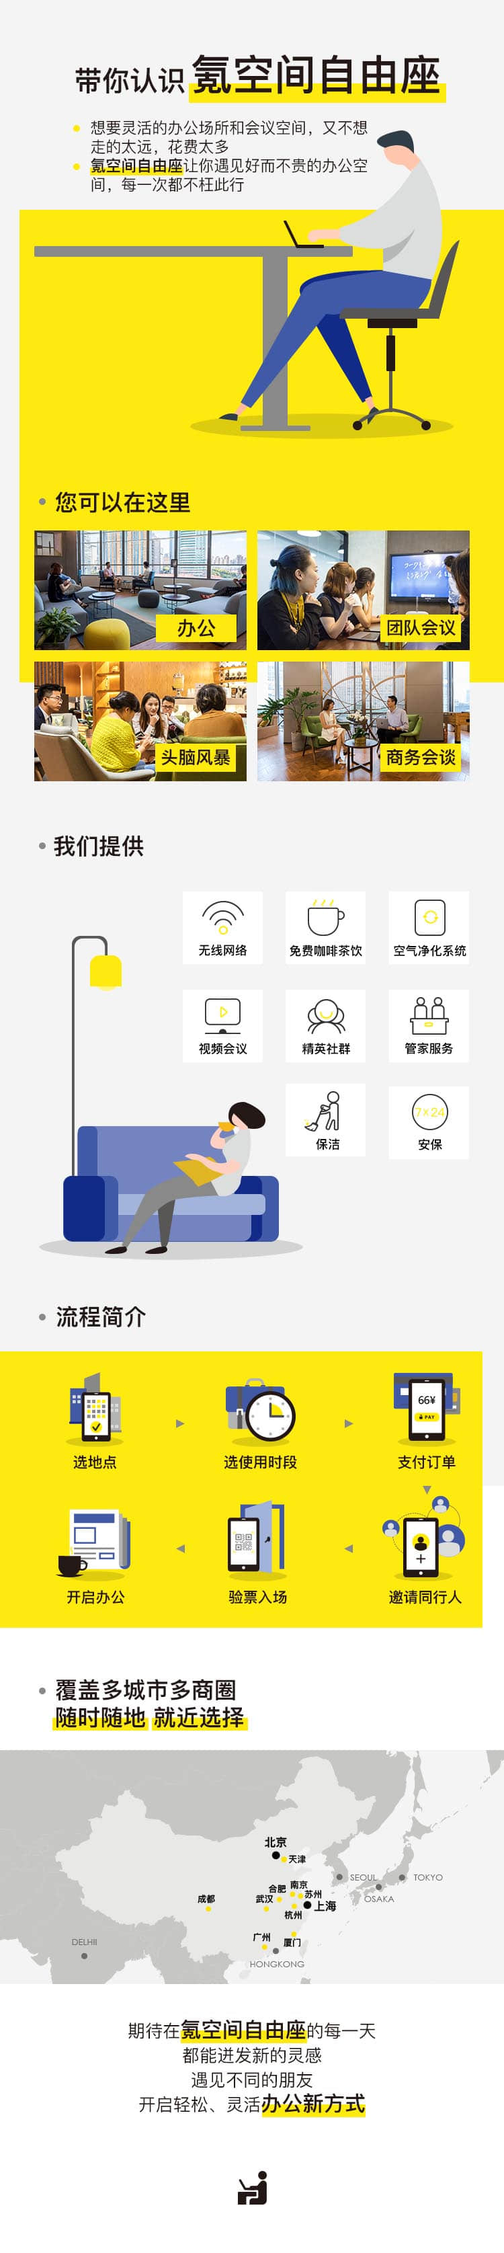
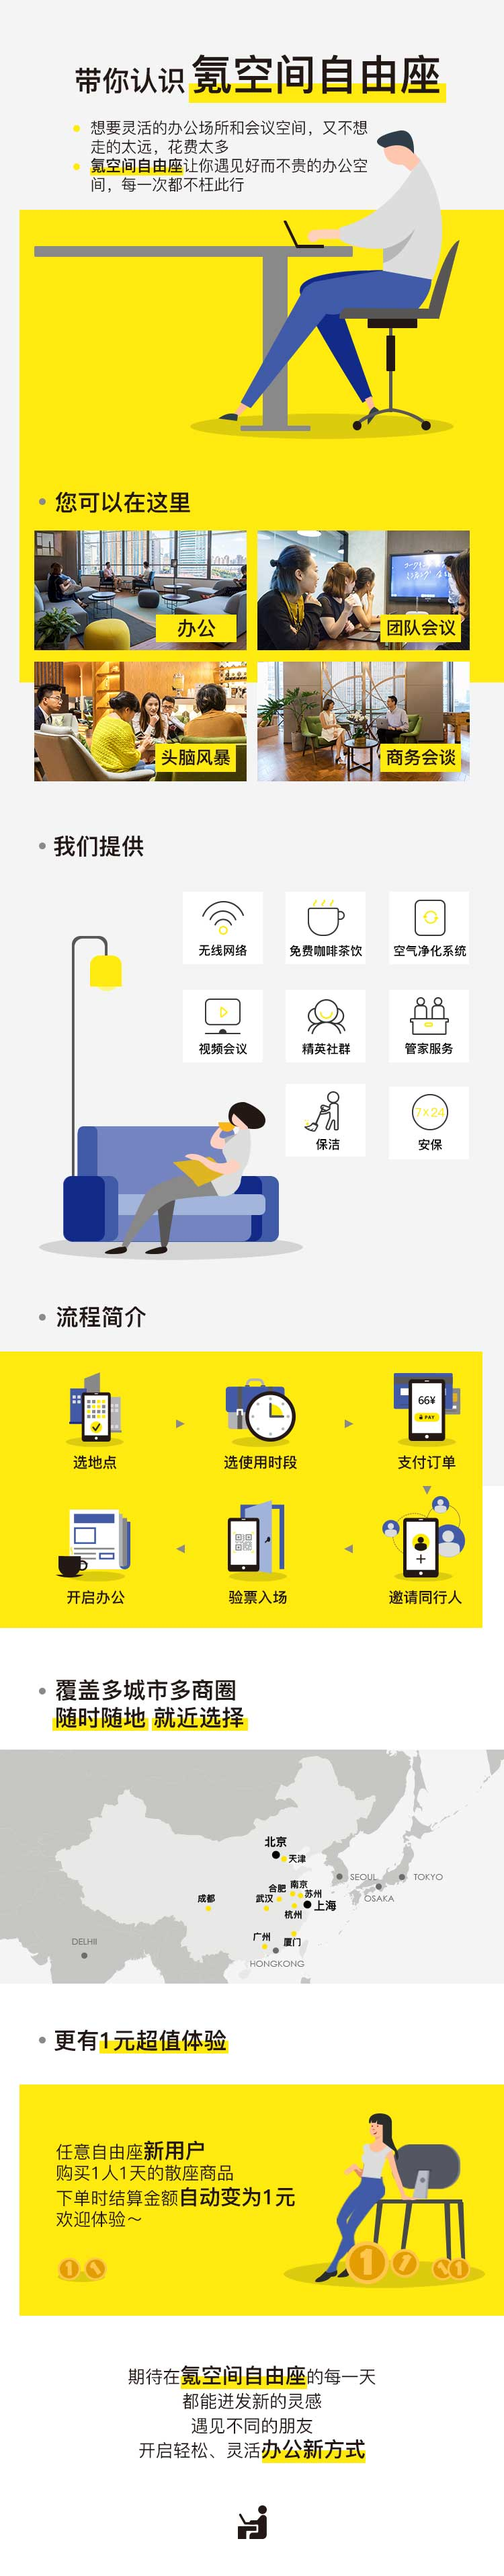
feat:新人引导图更换

diff --git a/src/pages/point/point.less b/src/pages/point/point.less
@@ -1,6 +1,6 @@
 .wrapper {
   width: 100%;
-  height: 3268rpx;
+  height: 3831rpx;
 }
 .wrapper image {
   width: 100%;
